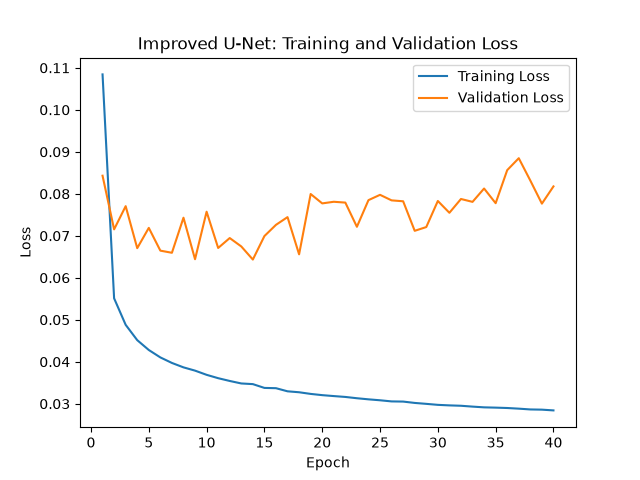
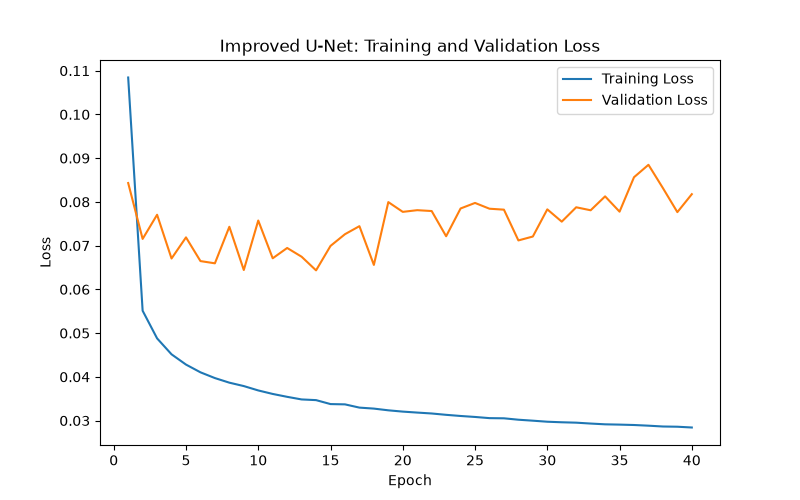
Make training plots the same size

diff --git a/recognition/UNet_HipMRI/plot_training.py b/recognition/UNet_HipMRI/plot_training.py
@@ -21,7 +21,8 @@ def plot_training_results(data, model_name, filename):
     best_dice = data.loc[best_index, "validation_dice"]
     
     # Graph 1: Training and Validation Loss
-    plt.figure()
+    plt.figure(figsize=(8, 5))
+
     plt.plot(epochs, train_losses, label="Training Loss")
     plt.plot(epochs, val_losses, label="Validation Loss")
 
@@ -35,7 +36,7 @@ def plot_training_results(data, model_name, filename):
     plt.close()
 
     # Graph 2: Validation Dice
-    plt.figure()
+    plt.figure(figsize=(8, 5))
     plt.plot(epochs, val_dices, label="Validation Dice")
 
     # Highlight the best epoch
@@ -51,7 +52,7 @@ def plot_training_results(data, model_name, filename):
     plt.title(f"{model_name}: Validation Dice")
     plt.legend()
 
-    plt.savefig(f"results/{filename}_dice.png", dpi=300)
+    plt.savefig(f"results/{filename}_dice.png")
     plt.show()
     plt.close()
 
